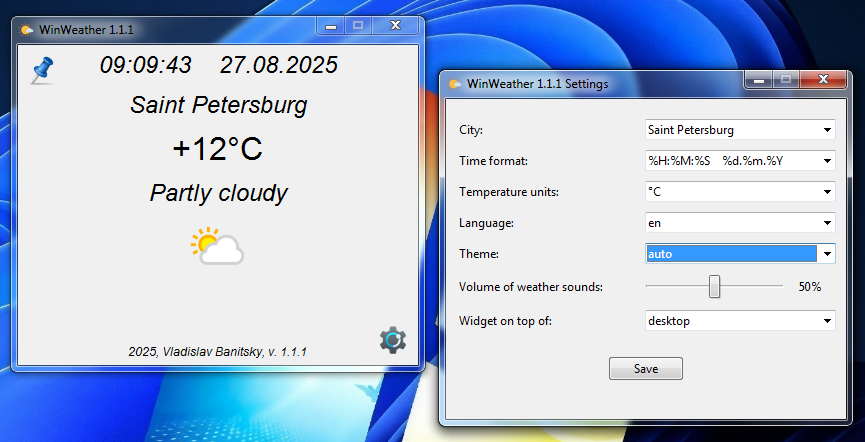
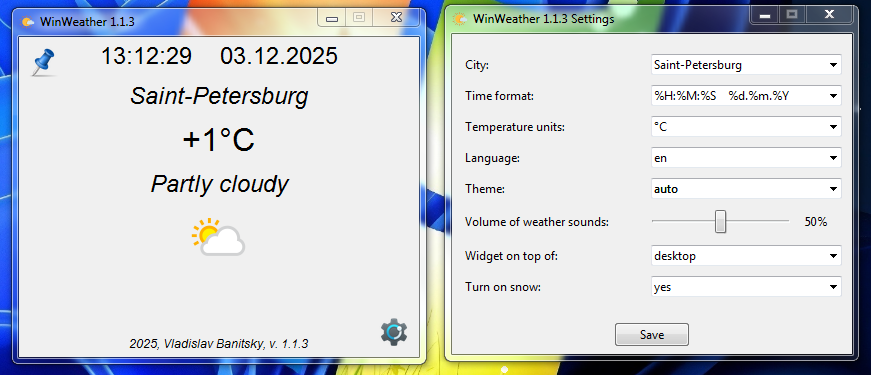
Added snow at the desktop

diff --git a/WinWeather.py b/WinWeather.py
@@ -3,8 +3,8 @@
 # Поддерживаются два режима работы: оконное приложение (главное окно и окно настроек) и виджет.
 # GitHub: https://github.com/VladislavBanitsky/WinWeather
 # Разработчик: Владислав Баницкий
-# Версия: 1.1.2
-# Обновлено: 28.08.2025  
+# Версия: 1.1.3
+# Обновлено: 03.12.2025  
 # ==============================================================================================
 
 import tkinter as tk
@@ -18,7 +18,9 @@ import sys
 import os
 import pygame  # для работы со звуком
 from pygame import mixer
+from SnowOnDesktop import SnowDesktopOverlay
 
+snow_overlay = None  # Глобальная переменная для снега
 
 WIDTH = 400
 HEIGHT = 320
@@ -26,7 +28,7 @@ HEIGHT = 320
 W_WIDTH  = 250
 W_HEIGHT = 100
 
-VERSION = "1.1.2"
+VERSION = "1.1.3"
 ABOUT = f"2025, Vladislav Banitsky, v. {VERSION}"
 
 # Настройки по умолчанию
@@ -39,7 +41,8 @@ DEFAULT_SETTINGS = {
     "THEME": "auto",
     "VOLUME": 0.5,
     "WIDGET_ALWAYS_ON_TOP": False,
-    "AUTO_DETECT_SETTINGS": True
+    "AUTO_DETECT_SETTINGS": True,
+    "SNOW_IS_ON": True
 }
 
 # Цветовые схемы для тем
@@ -391,7 +394,6 @@ def toggle_widget_mode():
         # Убираем обработчики перемещения
         root.unbind('<Button-1>')
         root.unbind('<B1-Motion>')
-        root.unbind('<Double-Button-1>')
         
 
 # Функция для начала перемещения окна в режиме виджета
@@ -400,7 +402,6 @@ def start_move(event):
     x = event.x
     y = event.y
 
-
 # Функция для окончания перемещения окна в режиме виджета
 def on_move(event):
     deltax = event.x - x
@@ -408,7 +409,6 @@ def on_move(event):
     x_pos = root.winfo_x() + deltax
     y_pos = root.winfo_y() + deltay
     root.geometry(f"+{x_pos}+{y_pos}")
-
 
 # Функция для отображения окна Настройки
 def open_settings():
@@ -433,7 +433,8 @@ def open_settings():
     language_var = tk.StringVar(value=LANGUAGE)
     theme_var = tk.StringVar(value=THEME)
     volume_var = tk.DoubleVar(value=VOLUME)
-    widget_top_var = tk.StringVar()    
+    widget_top_var = tk.StringVar()
+    snow_is_on_var = tk.StringVar(value=SNOW_IS_ON)
     
     # Выводим название темы на нужном языке (но в переменных всё на английском)
     if THEME == "auto":
@@ -448,7 +449,12 @@ def open_settings():
         widget_top_var.set("всех окон" if LANGUAGE == "ru" else "all windows")
     else:
         widget_top_var.set("рабочего стола" if LANGUAGE == "ru" else "desktop")
-            
+    
+    if SNOW_IS_ON == True:
+        snow_is_on_var.set("да" if LANGUAGE == "ru" else "yes")
+    else:
+        snow_is_on_var.set("нет" if LANGUAGE == "ru" else "no")
+        
     # Создаем элементы управления с использованием grid    
     # Город
     row = 0
@@ -524,12 +530,20 @@ def open_settings():
                  values=["всех окон" if LANGUAGE == "ru" else "all windows",
                          "рабочего стола" if LANGUAGE == "ru" else "desktop"], state="readonly", width=18).grid(row=row, column=1, padx=10, pady=5, sticky='ew')
     
+    # Падающий снег поверх рабочего стола
+    row += 1
+    tk.Label(settings_window, text="Включить снег:" if LANGUAGE == "ru" else "Turn on snow:", 
+            bg=current_theme["bg"], fg=current_theme["fg"]).grid(row=row, column=0, padx=10, pady=5, sticky='w')
+    ttk.Combobox(settings_window, textvariable=snow_is_on_var, 
+                 values=["да" if LANGUAGE == "ru" else "yes",
+                         "нет" if LANGUAGE == "ru" else "no"], state="readonly", width=18).grid(row=row, column=1, padx=10, pady=5, sticky='ew')    
+    
     # Кнопка сохранения
     row += 1
     save_button = ttk.Button(settings_window, 
                              text="Сохранить" if LANGUAGE == "ru" else "Save", 
                              command=lambda: save_settings_by_button(city_var, temp_unit_var, time_format_var, language_var,
-                                                                     theme_var, volume_var, widget_top_var, settings_window))
+                                                                     theme_var, volume_var, widget_top_var, settings_window, snow_is_on_var))
     save_button.grid(row=row, column=0, columnspan=2, pady=20)
     
     # Настройка веса столбцов для правильного растяжения
@@ -538,8 +552,8 @@ def open_settings():
 
     
 # Функция для кнопки сохранения
-def save_settings_by_button(city_var, temp_unit_var, time_format_var, language_var, theme_var, volume_var, widget_top_var, settings_window):
-    global CITY, TEMP_UNIT, TIME_FORMAT, LANGUAGE, THEME, VOLUME, current_sound, AUTO_DETECT_SETTINGS, WIDGET_ALWAYS_ON_TOP
+def save_settings_by_button(city_var, temp_unit_var, time_format_var, language_var, theme_var, volume_var, widget_top_var, settings_window, snow_is_on_var):
+    global CITY, TEMP_UNIT, TIME_FORMAT, LANGUAGE, THEME, VOLUME, current_sound, AUTO_DETECT_SETTINGS, WIDGET_ALWAYS_ON_TOP, SNOW_IS_ON, snow_overlay
     
     TEMP_UNIT = temp_unit_var.get()
     TIME_FORMAT = time_format_var.get()
@@ -568,6 +582,25 @@ def save_settings_by_button(city_var, temp_unit_var, time_format_var, language_v
     else:
         WIDGET_ALWAYS_ON_TOP = False
     
+    if snow_is_on_var.get() == "да" or snow_is_on_var.get() == "yes":
+        SNOW_IS_ON = True
+    else:
+        SNOW_IS_ON = False
+        
+    # Обработка настроек снега
+    if SNOW_IS_ON:
+        if snow_overlay is None:
+            # Создаем снег, если его еще нет
+            snow_overlay = SnowDesktopOverlay(root)
+            snow_overlay.show()
+        else:
+            # Показываем снег, если он уже создан
+            snow_overlay.show()
+    else:
+        if snow_overlay is not None:
+            # Скрываем снег, если он есть
+            snow_overlay.hide()
+    
     # Обновляем громкость текущего звука
     if current_sound:
         current_sound.set_volume(VOLUME)
@@ -582,6 +615,7 @@ def save_settings_by_button(city_var, temp_unit_var, time_format_var, language_v
         "THEME": THEME,
         "VOLUME": VOLUME,
         "WIDGET_ALWAYS_ON_TOP": WIDGET_ALWAYS_ON_TOP,
+        "SNOW_IS_ON": SNOW_IS_ON,
         "AUTO_DETECT_SETTINGS": AUTO_DETECT_SETTINGS  # теперь считываем настройки пользователя
     }
     save_settings(settings_to_save)
@@ -619,6 +653,7 @@ TIME_FORMAT = settings["TIME_FORMAT"]
 LANGUAGE = settings["LANGUAGE"]
 THEME = settings["THEME"]
 VOLUME = settings.get("VOLUME", 0.5)
+SNOW_IS_ON = settings.get("SNOW_IS_ON", True)
 WIDGET_MODE = False
 WIDGET_ALWAYS_ON_TOP = settings.get("WIDGET_ALWAYS_ON_TOP", True)
 WIDGET_TRANSPARENCY = 0.9
@@ -647,6 +682,10 @@ if THEME == "auto":  # тема автоматическая?
     current_theme_name = get_auto_theme()  # тогда узнаём нужную
 else:  # иначе тема статическая
     current_theme_name = THEME  # просто сохраняем статическую тему 
+
+if SNOW_IS_ON:
+    snow_overlay = SnowDesktopOverlay(root)
+    snow_overlay.show()
 
 current_theme = THEMES[current_theme_name]  # получаем нужные цвета в глобальную переменную
 
@@ -723,9 +762,13 @@ if not WIDGET_MODE:
     author_label.pack(pady=3, side=tk.BOTTOM)
 
 # Запуск основного цикла приложения
-root.mainloop()
-
-# При выходе из приложения останавливаем все звуки
-if SOUND_INITIALIZED:
-    mixer.quit()
-pygame.quit()
+try:
+    root.mainloop()
+finally:
+    # При выходе из приложения останавливаем все звуки
+    if SOUND_INITIALIZED:
+        mixer.quit()
+    pygame.quit()
+    # Останавливаем снег, если он запущен
+    if snow_overlay is not None:
+        snow_overlay.quit()

diff --git a/SnowOnDesktop.py b/SnowOnDesktop.py
@@ -1,0 +1,159 @@
+import tkinter as tk
+from tkinter import *
+import random
+import math
+import time
+import threading
+
+class SnowDesktopOverlay:
+    def __init__(self, parent_root=None):
+        self.parent_root = parent_root
+        
+        if parent_root:
+            # Если есть родительское окно, создаем Toplevel
+            self.root = tk.Toplevel(parent_root)
+        else:
+            # Иначе создаем основное окно
+            self.root = tk.Tk()
+        
+        # Настраиваем окно снега
+        self.setup_window()
+        
+        # Создаем снежинки
+        self.snowflakes = []
+        self.snow_count = 80
+        self.create_snowflakes()
+        
+        # Флаг для остановки анимации
+        self.running = True
+        
+        # Запускаем анимацию в отдельном потоке
+        self.animate()
+        
+    def setup_window(self):
+        """Настройка окна снега"""
+        # Получаем размеры экрана
+        self.screen_width = self.root.winfo_screenwidth()
+        self.screen_height = self.root.winfo_screenheight()
+        
+        # Настройки окна для оверлея поверх рабочего стола
+        self.root.attributes('-fullscreen', True)
+        self.root.attributes('-topmost', False)  # Важно: поверх всех окон!
+        self.root.attributes('-transparentcolor', 'black')
+        self.root.attributes('-alpha', 0.9)  # Полупрозрачность
+        self.root.config(bg='black')
+        self.root.overrideredirect(True)  # Убираем рамки
+        
+        # Создаем холст
+        self.canvas = tk.Canvas(self.root, bg='black', highlightthickness=0)
+        self.canvas.pack(fill=BOTH, expand=True)
+        
+        # Отключаем взаимодействие с окном снега (чтобы можно было кликать сквозь него)
+        self.root.attributes('-disabled', True)
+        
+        # Скрываем окно из панели задач
+        if hasattr(self.root, 'wm_withdraw'):
+            self.root.wm_withdraw()
+        if hasattr(self.root, 'withdraw'):
+            self.root.withdraw()
+        
+            
+    def create_snowflakes(self):
+        """Создание снежинок"""
+        for _ in range(self.snow_count):
+            flake = {
+                'x': random.randint(0, self.screen_width),
+                'y': random.randint(-100, 0),
+                'size': random.randint(1, 3),
+                'speed': random.uniform(0.5, 2),
+                'wind': random.uniform(-0.2, 0.2),
+                'oscillation': random.uniform(0.01, 0.05),
+                'offset': random.uniform(0, 6.28),
+                'id': None
+            }
+            self.snowflakes.append(flake)
+    
+    def animate(self):
+        """Анимация снежинок"""
+        if not self.running:
+            return
+            
+        try:
+            # Очищаем холст
+            self.canvas.delete("snow")
+            
+            # Обновляем позиции снежинок
+            for flake in self.snowflakes:
+                # Движение вниз
+                flake['y'] += flake['speed']
+                
+                # Колебания вбок
+                oscillation = math.sin(time.time() * flake['oscillation'] + flake['offset']) * 0.5
+                flake['x'] += flake['wind'] + oscillation
+                
+                # Если снежинка упала, возвращаем наверх
+                if flake['y'] > self.screen_height:
+                    flake['y'] = random.randint(-100, -10)
+                    flake['x'] = random.randint(0, self.screen_width)
+                
+                # Рисуем снежинку
+                x1 = flake['x'] - flake['size']
+                y1 = flake['y'] - flake['size']
+                x2 = flake['x'] + flake['size']
+                y2 = flake['y'] + flake['size']
+                
+                # Создаем снежинку
+                flake['id'] = self.canvas.create_oval(
+                    x1, y1, x2, y2,
+                    fill='white',
+                    outline='white',
+                    tags='snow'
+                )
+            
+            # Обновляем окно
+            self.root.update_idletasks()
+            self.root.update()
+            
+            # Планируем следующее обновление
+            self.root.after(30, self.animate)
+            
+        except tk.TclError:
+            # Окно было закрыто
+            pass
+    
+    def show(self):
+        """Показать снег"""
+        self.running = True
+        self.root.deiconify() if hasattr(self.root, 'deiconify') else self.root.wm_deiconify()
+        self.animate()
+    
+    def hide(self):
+        """Скрыть снег"""
+        self.running = False
+        self.root.withdraw() if hasattr(self.root, 'withdraw') else self.root.wm_withdraw()
+    
+    def toggle(self):
+        """Переключить видимость снега"""
+        if self.running:
+            self.hide()
+        else:
+            self.show()
+        return self.running
+    
+    def quit(self):
+        """Завершить работу снега"""
+        self.running = False
+        try:
+            self.root.destroy()
+        except:
+            pass
+    
+    def run(self):
+        """Основной цикл (только если нет родительского окна)"""
+        if not self.parent_root:
+            self.root.mainloop()
+
+# Функция для тестирования
+if __name__ == "__main__":
+    app = SnowDesktopOverlay()
+    app.run()
